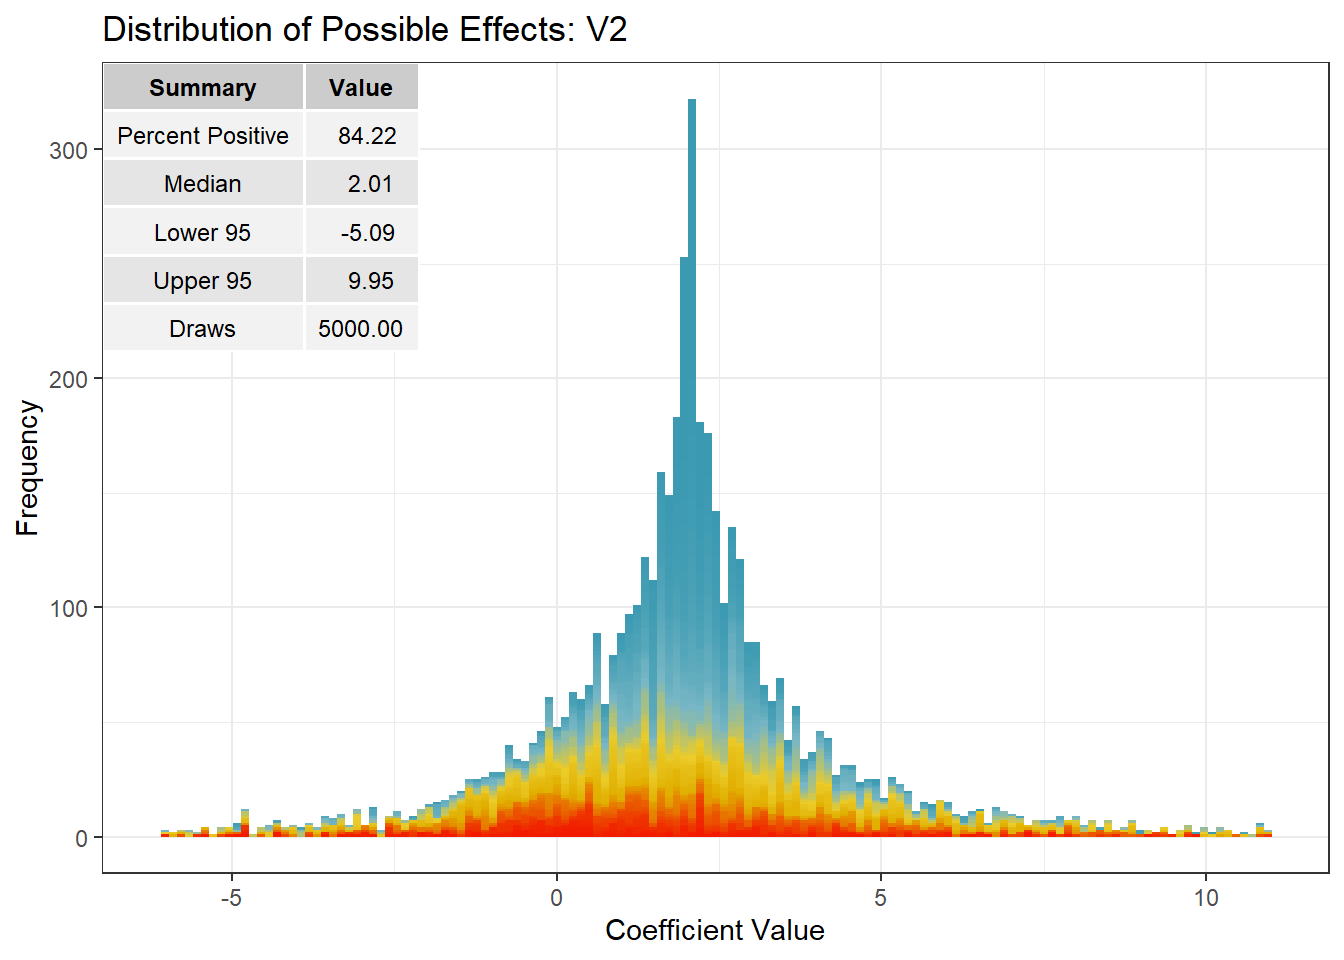
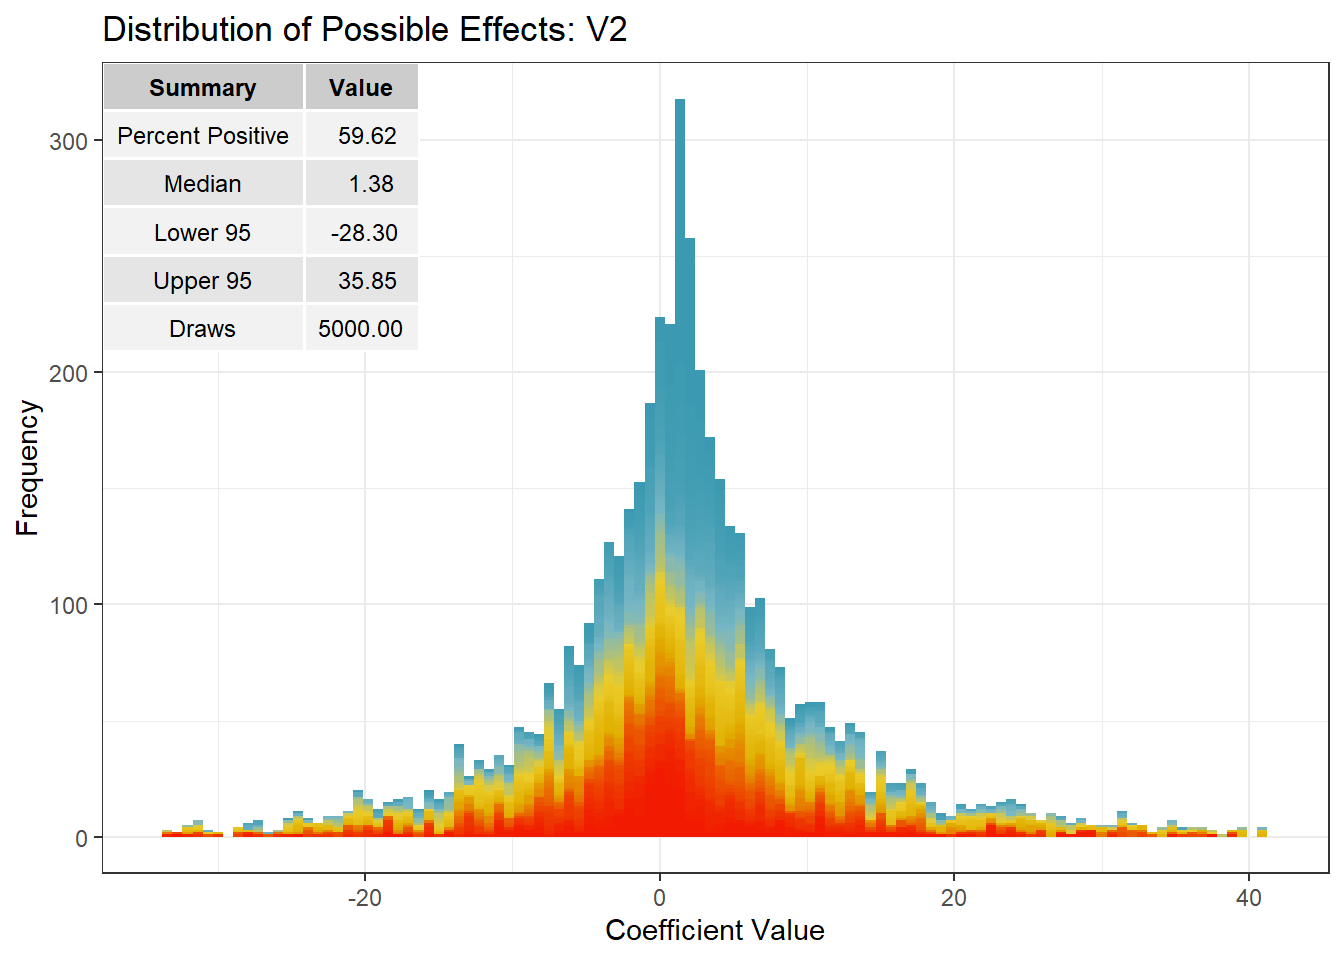
update README

diff --git a/README.md b/README.md
@@ -188,21 +188,21 @@ set.seed(8675309)
 x_vars <- 5
 n_obs <- 1000
 corm <- RandomCormCPP(nvars = x_vars)
-X_mat <- MASS::mvrnorm(n_obs, rep(0,x_vars), Sigma = corm, empirical = TRUE)
+X_mat <- MASS::mvrnorm(n_obs, rep(0,x_vars), Sigma = corm)
 
 betas <- 1:x_vars
 
-y <- X_mat %*% betas + rnorm(n_obs, 0, 1)
+y <- X_mat %*% betas + rnorm(n_obs, 0, 5)
 
 dat <- data.frame(y,X_mat)
 cov(dat)
-##            y         V1         V2         V3         V4         V5
-## y  96.249064  8.2893844 -3.2385370  5.9116955  8.1197634  8.6556218
-## V1  8.289384  1.0000000 -0.6810327  0.5393754  0.7133123  0.8364409
-## V2 -3.238537 -0.6810327  1.0000000 -0.6527605 -0.1538645 -0.3959848
-## V3  5.911695  0.5393754 -0.6527605  1.0000000  0.3200147  0.4794690
-## V4  8.119763  0.7133123 -0.1538645  0.3200147  1.0000000  0.5489857
-## V5  8.655622  0.8364409 -0.3959848  0.4794690  0.5489857  1.0000000
+##             y         V1         V2         V3         V4         V5
+## y  121.467197  8.2838206 -3.3630478  6.0726558  8.1503611  8.5835385
+## V1   8.283821  0.9339341 -0.6078563  0.5360767  0.7143011  0.7979034
+## V2  -3.363048 -0.6078563  0.9102019 -0.6559167 -0.1451956 -0.3767998
+## V3   6.072656  0.5360767 -0.6559167  1.0287591  0.3094510  0.5009242
+## V4   8.150361  0.7143011 -0.1451956  0.3094510  1.0035173  0.5555419
+## V5   8.583538  0.7979034 -0.3767998  0.5009242  0.5555419  0.9444915
 ```
 
 The lower V1-V5 sub-matrix is a draw from the set of valid correlation
@@ -233,14 +233,14 @@ dope <- DOPE(mod, nsims = 5000, n.cores = parallel::detectCores())
 ``` r
 tail(dplyr::tbl_df(dope))
 ## # A tibble: 6 x 8
-##   Intercept     V1    V2    V3    V4    V5 ControlFunction R_Squared
-##       <dbl>  <dbl> <dbl> <dbl> <dbl> <dbl>           <dbl>     <dbl>
-## 1    0.0135  4.04   2.86  3.34  2.92  3.19          -1.02      0.994
-## 2    0.0135 -0.125  1.39  2.88  4.28  5.33           0.420     0.990
-## 3    0.0135  1.27   2.32  2.93  4.78  3.84           1.11      0.992
-## 4    0.0135  1.50   1.76  2.79  4.62  3.46           1.18      0.992
-## 5    0.0135  3.23   3.39  4.04  3.15  4.45           1.35      0.998
-## 6    0.0135  1.11   2.04  3.02  3.98  4.90          NA         0.989
+##   Intercept      V1     V2      V3      V4    V5 ControlFunction R_Squared
+##       <dbl>   <dbl>  <dbl>   <dbl>   <dbl> <dbl>           <dbl>     <dbl>
+## 1   1.26      6.30   15.6  49.5    -13.4   -1.15           37.5      0.923
+## 2   0.275     2.79   -1.18  2.26    -0.762  7.18           -5.04     0.793
+## 3  -0.0203   11.3     9.13  5.02     1.96  -1.10            4.61     0.885
+## 4   0.205     9.66    5.22  7.59     2.01  -2.17            5.15     0.875
+## 5  -0.00395 -50.5   -17.7  -0.0694  23.7   32.5           -10.1      0.867
+## 6   0.0747    0.628   1.56  2.75     4.12   5.30           NA        0.788
 ```
 
 The result is a dataframe of `nsims` + 1 observations with columns for
@@ -257,7 +257,7 @@ plot_DOPE(dope,"V2") + ggtitle("Distribution of Possible Effects: V2")
 
 <img src="README_figs/README-unnamed-chunk-8-1.png" width="672" style="display: block; margin: auto;" />
 
-In this example, based upon 5000 draws around 84% of the estimated
+In this example, based upon 5000 draws around 60% of the estimated
 effects are greater than zero with a 95% credible interval given by the
 lower and upper 95 bounds. The naive estimate is indicated in red. Since
 the distribution is simulated setting a seed and using a large number of
